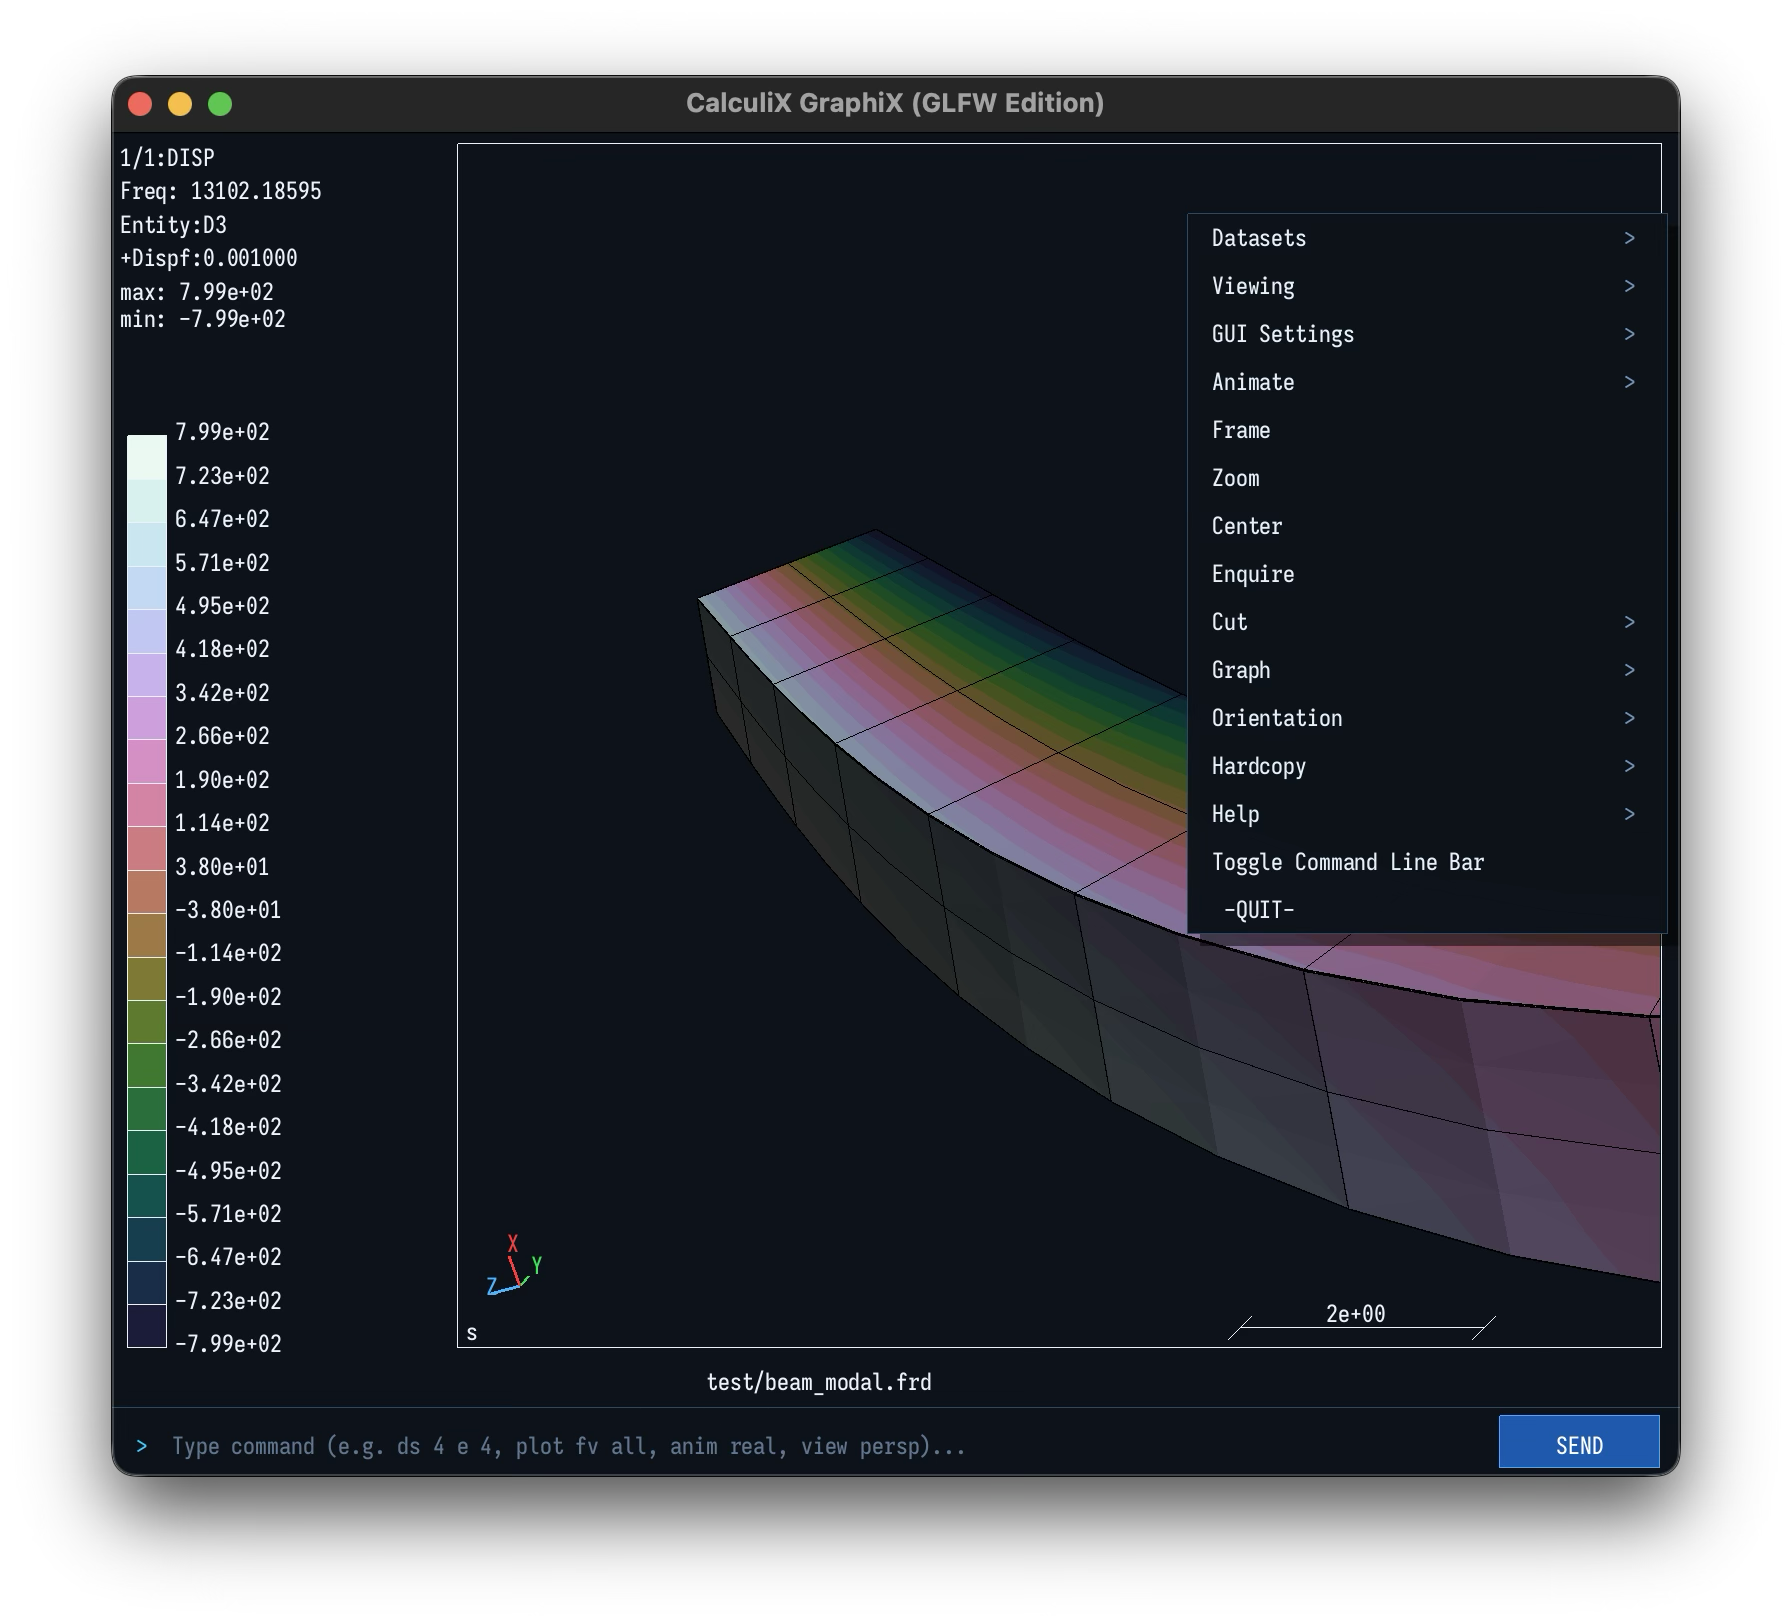
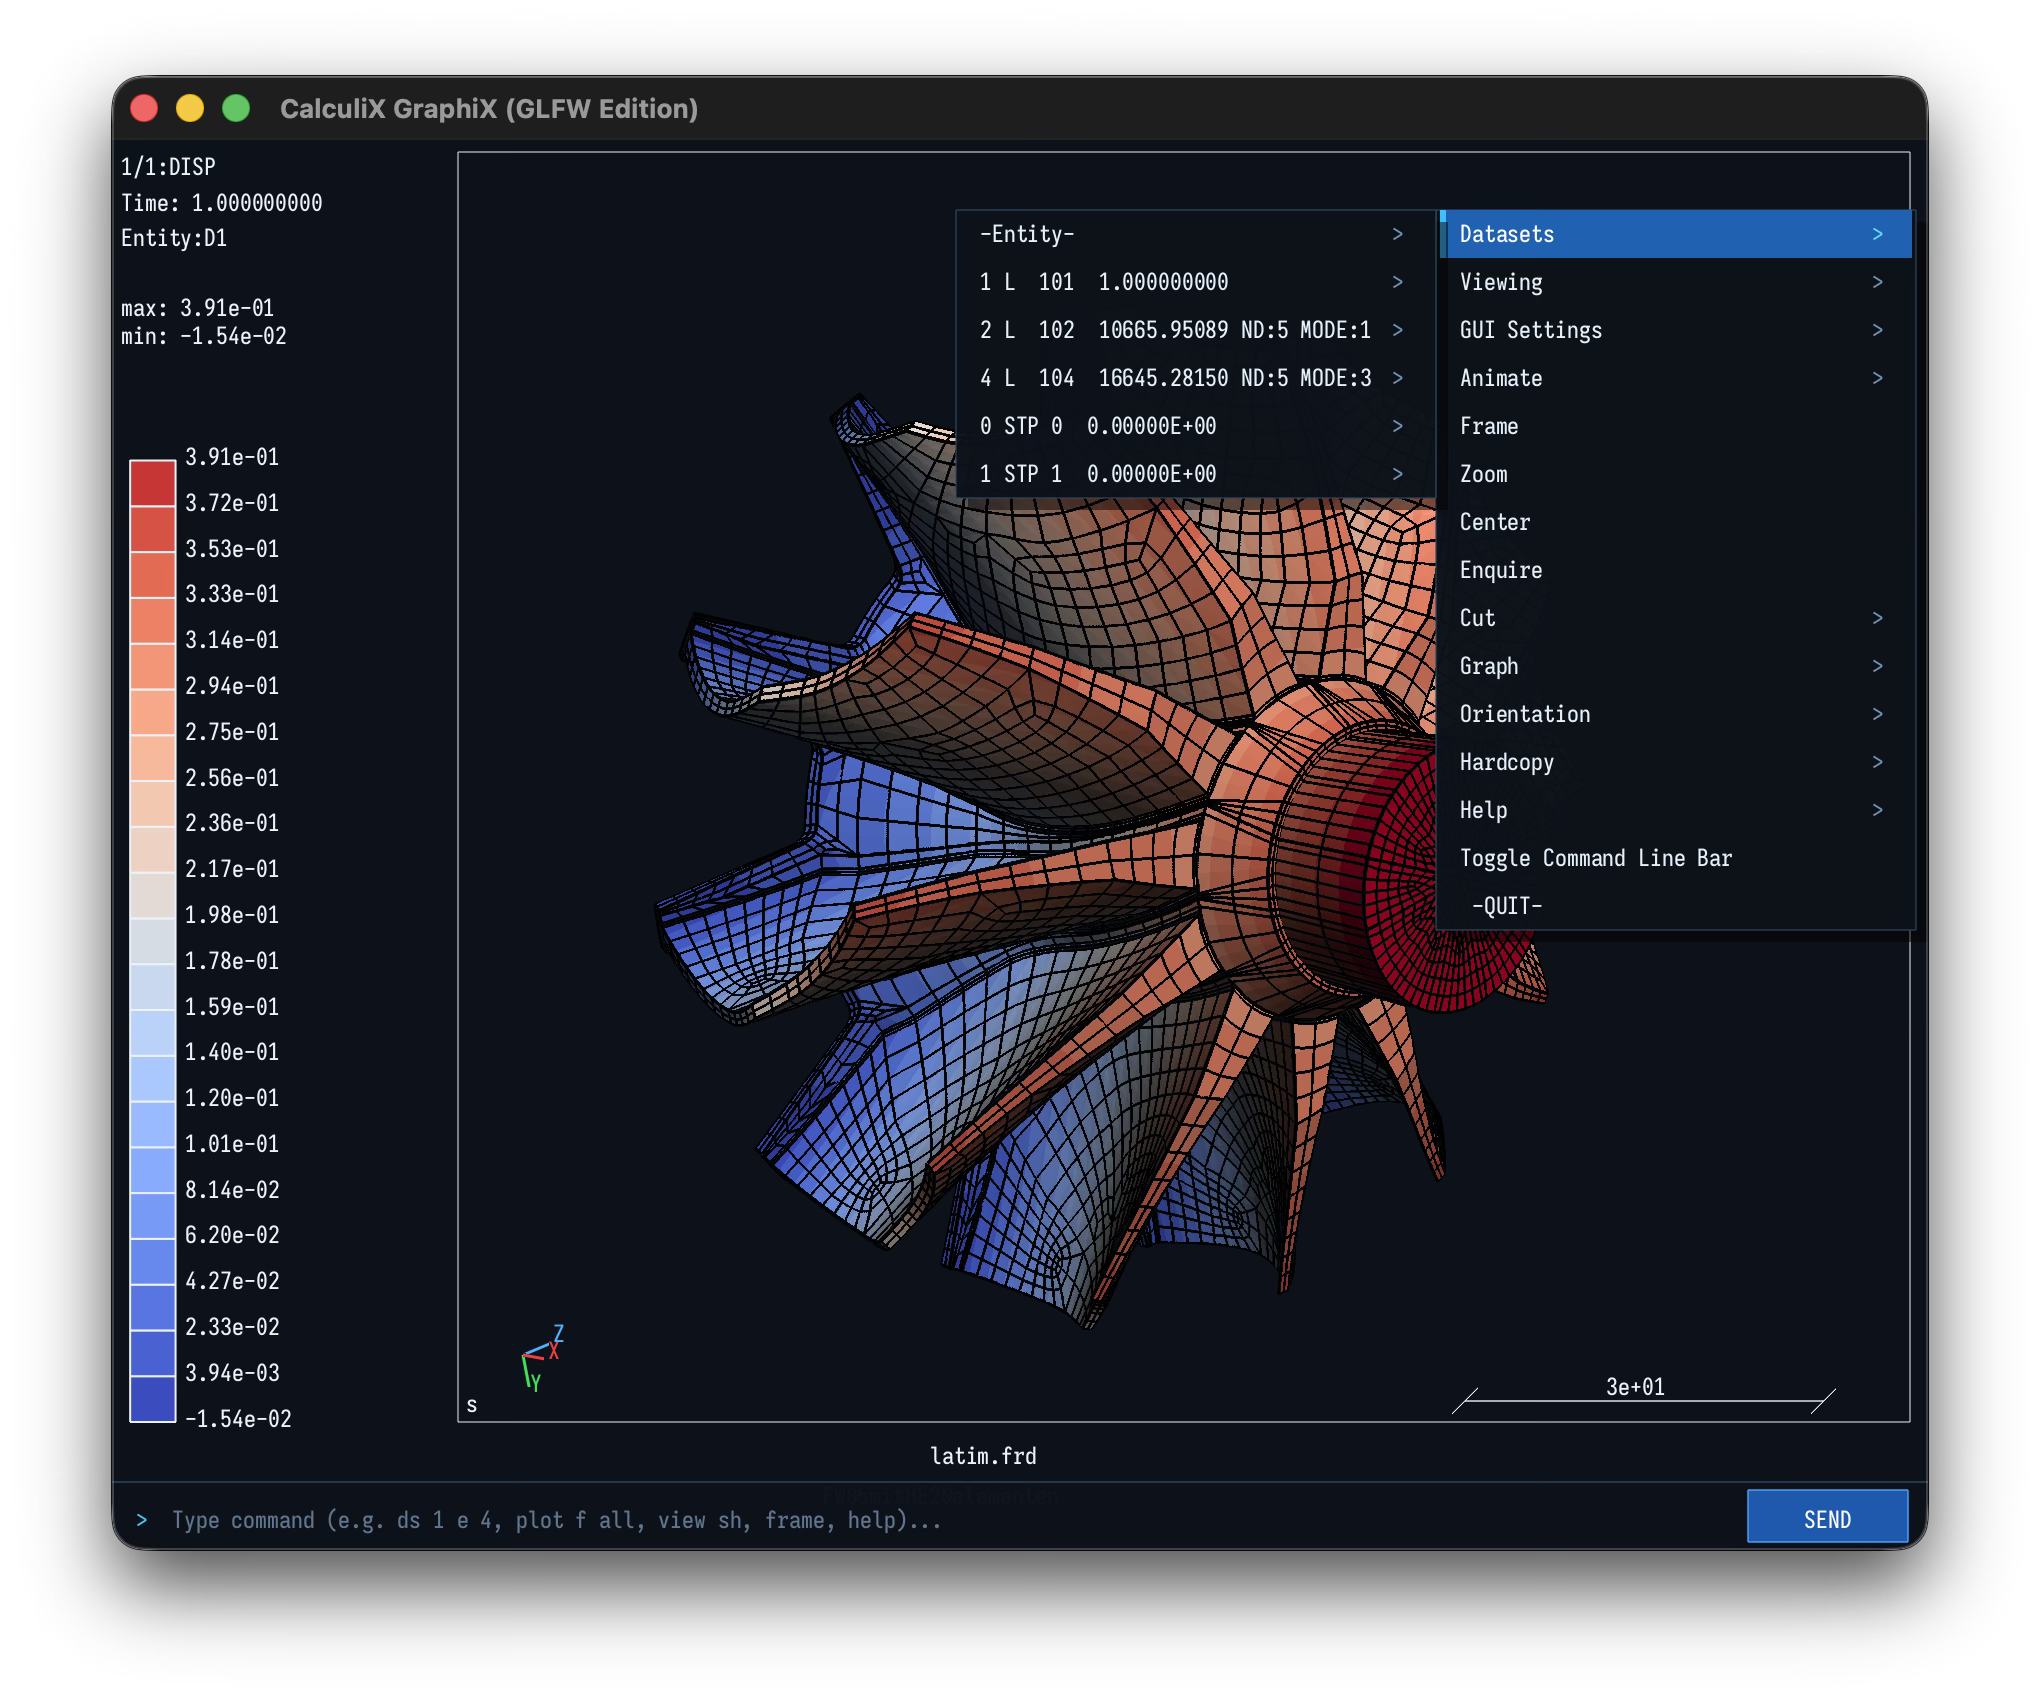
feat(ui): add multi-line clipboard paste and shortcuts to command bar, update screenshot

diff --git a/cgx_2.23/src/cgx_glut_glfw.c b/cgx_2.23/src/cgx_glut_glfw.c
@@ -720,6 +720,113 @@ static void submit_command_bar(void)
   }
 }
 
+/* Handle Clipboard Paste (Cmd+V on macOS, Ctrl+V on Linux/Windows) */
+static void handle_command_bar_paste(void)
+{
+  if (!g_glfw_window) return;
+  const char *clip = glfwGetClipboardString(g_glfw_window);
+  if (!clip || !*clip) return;
+
+  /* Check if clipboard contains any newline characters */
+  int has_newlines = (strchr(clip, '\n') != NULL || strchr(clip, '\r') != NULL);
+
+  if (!has_newlines)
+  {
+    /* Single-line text: append directly into the command bar buffer */
+    g_gui_status_msg[0] = '\0';
+    while (*clip && g_cmd_len < (int)sizeof(g_cmd_buf) - 2)
+    {
+      if ((unsigned char)*clip >= 32 && (unsigned char)*clip < 127)
+      {
+        g_cmd_buf[g_cmd_len++] = *clip;
+      }
+      clip++;
+    }
+    g_cmd_buf[g_cmd_len] = '\0';
+    g_need_redisplay = 1;
+    return;
+  }
+
+  /* Multi-line script paste: sequentially parse and execute line by line */
+  char *clip_copy = strdup(clip);
+  if (!clip_copy) return;
+
+  char *p = clip_copy;
+  int executed_count = 0;
+  char single_line[512];
+
+  while (*p)
+  {
+    /* Find end of line */
+    char *eol = p;
+    while (*eol && *eol != '\n' && *eol != '\r') eol++;
+
+    int is_last_line = (*eol == '\0');
+    char delim = *eol;
+    *eol = '\0';
+
+    /* Trim leading and trailing whitespace */
+    char *start = p;
+    while (*start == ' ' || *start == '\t') start++;
+    int len = (int)strlen(start);
+    while (len > 0 && (start[len - 1] == ' ' || start[len - 1] == '\t' || start[len - 1] == '\r'))
+    {
+      start[--len] = '\0';
+    }
+
+    if (len > 0)
+    {
+      /* Combine with existing command buffer if on the very first line */
+      if (executed_count == 0 && g_cmd_len > 0)
+      {
+        snprintf(single_line, sizeof(single_line), "%s%s", g_cmd_buf, start);
+        g_cmd_buf[0] = '\0';
+        g_cmd_len = 0;
+      }
+      else
+      {
+        strncpy(single_line, start, sizeof(single_line) - 1);
+        single_line[sizeof(single_line) - 1] = '\0';
+      }
+
+      /* Add to command history */
+      if (g_cmd_hist_count < MAX_CMD_HIST)
+      {
+        strncpy(g_cmd_history[g_cmd_hist_count++], single_line, 255);
+      }
+      else
+      {
+        for (int i = 0; i < MAX_CMD_HIST - 1; i++)
+        {
+          strcpy(g_cmd_history[i], g_cmd_history[i + 1]);
+        }
+        strncpy(g_cmd_history[MAX_CMD_HIST - 1], single_line, 255);
+      }
+      g_cmd_hist_pos = g_cmd_hist_count;
+
+      cgx_execute_command_string(single_line);
+      executed_count++;
+    }
+
+    if (is_last_line) break;
+    p = eol + 1;
+    if (delim == '\r' && *p == '\n') p++; /* handle CRLF */
+  }
+
+  free(clip_copy);
+
+  g_cmd_buf[0] = '\0';
+  g_cmd_len = 0;
+
+  if (executed_count > 0)
+  {
+    char status[128];
+    snprintf(status, sizeof(status), "Pasted & executed %d command%s", executed_count, (executed_count == 1) ? "" : "s");
+    cgx_set_gui_status(status);
+  }
+  g_need_redisplay = 1;
+}
+
 #define STB_TRUETYPE_IMPLEMENTATION
 #include "stb_truetype.h"
 
@@ -1371,7 +1478,44 @@ static void glfw_key_callback(GLFWwindow *window, int key, int scancode, int act
 
   if (g_cmd_bar_visible && g_cmd_focused && g_cascade_depth <= 0)
   {
-    if (key == GLFW_KEY_ENTER)
+    /* Clipboard Paste: Cmd+V (macOS) or Ctrl+V (Linux/Windows) */
+    if (key == GLFW_KEY_V && (mods & (GLFW_MOD_CONTROL | GLFW_MOD_SUPER)))
+    {
+      handle_command_bar_paste();
+      return;
+    }
+    /* Clipboard Copy: Cmd+C (macOS) or Ctrl+C (Linux/Windows) */
+    else if (key == GLFW_KEY_C && (mods & (GLFW_MOD_CONTROL | GLFW_MOD_SUPER)))
+    {
+      if (g_cmd_len > 0)
+      {
+        glfwSetClipboardString(g_glfw_window, g_cmd_buf);
+        cgx_set_gui_status("Copied command to clipboard");
+      }
+      return;
+    }
+    /* Clipboard Cut: Cmd+X (macOS) or Ctrl+X (Linux/Windows) */
+    else if (key == GLFW_KEY_X && (mods & (GLFW_MOD_CONTROL | GLFW_MOD_SUPER)))
+    {
+      if (g_cmd_len > 0)
+      {
+        glfwSetClipboardString(g_glfw_window, g_cmd_buf);
+        g_cmd_buf[0] = '\0';
+        g_cmd_len = 0;
+        cgx_set_gui_status("Cut command to clipboard");
+        g_need_redisplay = 1;
+      }
+      return;
+    }
+    /* Clear Line: Ctrl+U or Cmd+Backspace */
+    else if ((key == GLFW_KEY_U && (mods & GLFW_MOD_CONTROL)) || (key == GLFW_KEY_BACKSPACE && (mods & GLFW_MOD_SUPER)))
+    {
+      g_cmd_buf[0] = '\0';
+      g_cmd_len = 0;
+      g_need_redisplay = 1;
+      return;
+    }
+    else if (key == GLFW_KEY_ENTER)
     {
       submit_command_bar();
       return;
@@ -1469,6 +1613,16 @@ static void glfw_key_callback(GLFWwindow *window, int key, int scancode, int act
 static void glfw_char_callback(GLFWwindow *window, unsigned int codepoint)
 {
   (void)window;
+  if (g_glfw_window)
+  {
+    if (glfwGetKey(g_glfw_window, GLFW_KEY_LEFT_CONTROL) == GLFW_PRESS ||
+        glfwGetKey(g_glfw_window, GLFW_KEY_RIGHT_CONTROL) == GLFW_PRESS ||
+        glfwGetKey(g_glfw_window, GLFW_KEY_LEFT_SUPER) == GLFW_PRESS ||
+        glfwGetKey(g_glfw_window, GLFW_KEY_RIGHT_SUPER) == GLFW_PRESS)
+    {
+      return;
+    }
+  }
   if (codepoint >= 32 && codepoint < 127)
   {
     if (g_cmd_bar_visible && g_cmd_focused && g_cascade_depth <= 0)
